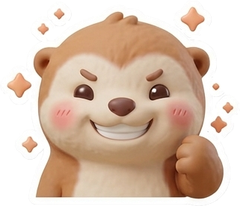
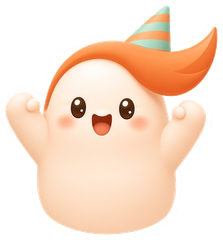
Chat reactions: six new mascot stickers that move to their feeling
The otter reactions are redrawn with the Sigmazam mascot, one idea each: hugging a
heart, laughing in tears, paws on cheeks, under a rain cloud, in a party hat, cool in
sunglasses. ReactionSticker gives each its own beat (heartbeat, shake, pop, slow sway,
jump, nod): looping in the reaction picker, twice and then still under a message, and
still with reduced motion.

diff --git a/src/components/chat/reaction-sticker.tsx b/src/components/chat/reaction-sticker.tsx
@@ -1,0 +1,119 @@
+import { Image } from 'expo-image';
+import { useEffect } from 'react';
+import { StyleProp, ViewStyle } from 'react-native';
+import Animated, {
+  cancelAnimation,
+  Easing,
+  type SharedValue,
+  useAnimatedStyle,
+  useReducedMotion,
+  useSharedValue,
+  withDelay,
+  withRepeat,
+  withSequence,
+  withSpring,
+  withTiming,
+} from 'react-native-reanimated';
+
+import { REACTION_STICKERS, type ReactionName } from '@/assets/brand/registry';
+
+interface ReactionStickerProps {
+  name: ReactionName;
+  /** `loop` keeps moving (the reaction picker); `once` plays twice and rests (under a message). */
+  play?: 'loop' | 'once';
+  /** Size and position; the sticker fills it. */
+  style?: StyleProp<ViewStyle>;
+}
+
+type Motion = { scale: SharedValue<number>; rotate: SharedValue<number>; lift: SharedValue<number> };
+
+const ease = Easing.inOut(Easing.quad);
+const tick = (to: number, duration: number) => withTiming(to, { duration, easing: ease });
+
+/**
+ * Each reaction moves the way it feels, a short beat then a rest:
+ * love beats like a heart, laugh shakes, wow pops, sad sways slowly, hyped jumps,
+ * thumbs gives a cool nod. `lift` is a share of the sticker's height.
+ */
+function start(name: ReactionName, { scale, rotate, lift }: Motion, times: number) {
+  const repeat = (beat: number) => withRepeat(beat, times);
+  switch (name) {
+    case 'love':
+      scale.value = repeat(
+        withSequence(tick(1.14, 120), tick(1, 120), tick(1.09, 120), tick(1, 200), withDelay(900, tick(1, 0))),
+      );
+      break;
+    case 'laugh':
+      rotate.value = repeat(
+        withSequence(tick(-9, 70), tick(9, 90), tick(-7, 90), tick(7, 90), tick(0, 80), withDelay(650, tick(0, 0))),
+      );
+      lift.value = repeat(withSequence(tick(-0.05, 110), tick(0, 110), tick(-0.05, 110), tick(0, 110), withDelay(650, tick(0, 0))));
+      break;
+    case 'wow':
+      scale.value = repeat(
+        withSequence(tick(0.86, 90), withSpring(1.16, { damping: 6, stiffness: 260 }), tick(1, 180), withDelay(1500, tick(1, 0))),
+      );
+      break;
+    case 'sad':
+      rotate.value = repeat(withSequence(tick(-4, 1100), tick(4, 1100)));
+      lift.value = repeat(withSequence(tick(0.025, 1100), tick(0, 1100)));
+      break;
+    case 'hyped':
+      lift.value = repeat(
+        withSequence(
+          withTiming(-0.2, { duration: 150, easing: Easing.out(Easing.quad) }),
+          withTiming(0, { duration: 150, easing: Easing.in(Easing.quad) }),
+          withTiming(-0.14, { duration: 130, easing: Easing.out(Easing.quad) }),
+          withTiming(0, { duration: 130, easing: Easing.in(Easing.quad) }),
+          withDelay(700, tick(0, 0)),
+        ),
+      );
+      scale.value = repeat(withSequence(tick(1.05, 150), tick(1, 150), tick(1, 260), withDelay(700, tick(1, 0))));
+      break;
+    case 'thumbs':
+      rotate.value = repeat(
+        withSequence(tick(-12, 160), withSpring(0, { damping: 7, stiffness: 220 }), withDelay(1400, tick(0, 0))),
+      );
+      break;
+  }
+}
+
+/** A chat reaction sticker of the Sigmazam mascot that moves to match its feeling. */
+export function ReactionSticker({ name, play = 'loop', style }: ReactionStickerProps) {
+  const reduceMotion = useReducedMotion();
+  const scale = useSharedValue(1);
+  const rotate = useSharedValue(0);
+  const lift = useSharedValue(0);
+  const height = useSharedValue(0);
+
+  useEffect(() => {
+    if (reduceMotion) return;
+    start(name, { scale, rotate, lift }, play === 'loop' ? -1 : 2);
+    return () => {
+      cancelAnimation(scale);
+      cancelAnimation(rotate);
+      cancelAnimation(lift);
+      scale.value = 1;
+      rotate.value = 0;
+      lift.value = 0;
+    };
+  }, [name, play, reduceMotion, scale, rotate, lift]);
+
+  const motion = useAnimatedStyle(() => ({
+    transform: [
+      { translateY: lift.value * height.value },
+      { rotate: `${rotate.value}deg` },
+      { scale: scale.value },
+    ],
+  }));
+
+  return (
+    <Animated.View
+      style={[style, motion]}
+      onLayout={(e) => {
+        height.value = e.nativeEvent.layout.height;
+      }}>
+      <Image source={REACTION_STICKERS[name]} style={{ width: '100%', height: '100%' }} contentFit="contain" />
+    </Animated.View>
+  );
+}

diff --git a/src/app/group/[id]/index.tsx b/src/app/group/[id]/index.tsx
@@ -1,6 +1,5 @@
 import { Ionicons } from '@expo/vector-icons';
 import * as Clipboard from 'expo-clipboard';
-import { Image } from 'expo-image';
 import * as ImagePicker from 'expo-image-picker';
 import { useFocusEffect, useLocalSearchParams, useRouter } from 'expo-router';
 import { useCallback, useEffect, useMemo, useRef, useState } from 'react';
@@ -10,6 +9,7 @@ import { useSafeAreaInsets } from 'react-native-safe-area-context';
 
 import { REPORT_REASONS } from '@/ai/safety';
 import { REACTION_STICKERS, type ReactionName } from '@/assets/brand/registry';
+import { ReactionSticker } from '@/components/chat/reaction-sticker';
 import { ChatInput, ChatWallpaper, MessageBubble, TypingRow, VoiceSheet } from '@/components/chat';
 import { DailyCallsSheet } from '@/components/chat/daily-calls-sheet';
 import { DayChip } from '@/components/chat/day-chip';
@@ -417,7 +417,7 @@ export default function GroupChatScreen() {
                       reactToMessage(groupId, menu.id, on ? undefined : reaction);
                       setMenu(null);
                     }}>
-                    <Image source={REACTION_STICKERS[reaction]} style={styles.reactionSticker} contentFit="contain" />
+                    <ReactionSticker name={reaction} style={styles.reactionSticker} />
                   </PressableScale>
                 );
               })}

diff --git a/src/components/chat/message-bubble.tsx b/src/components/chat/message-bubble.tsx
@@ -8,6 +8,7 @@ import Animated, { FadeInDown } from 'react-native-reanimated';
 
 import { HELPLINE_URL } from '@/ai/safety';
 import { REACTION_STICKERS, type ReactionName } from '@/assets/brand/registry';
+import { ReactionSticker } from '@/components/chat/reaction-sticker';
 import { BoothPicture, fitWidth } from '@/components/photo-booth/booth-picture';
 import { Anim, Button, CharacterAvatar, PressableScale, Txt, UserAvatar } from '@/components/ui';
 import { planDate } from '@/components/plans/copy';
@@ -80,10 +81,10 @@ export const MessageBubble = memo(function MessageBubble({
           <TextBubble message={message} mine={mine} first={showAvatar} />
         )}
         {message.reaction && message.reaction in REACTION_STICKERS ? (
-          <Image
-            source={REACTION_STICKERS[message.reaction as ReactionName]}
+          <ReactionSticker
+            name={message.reaction as ReactionName}
+            play="once"
             style={[styles.reaction, mine ? styles.reactionMine : styles.reactionTheirs]}
-            contentFit="contain"
           />
         ) : null}
       </PressableScale>

diff --git a/src/app/chat/[id].tsx b/src/app/chat/[id].tsx
@@ -16,6 +16,7 @@ import { DailyCallsSheet } from '@/components/chat/daily-calls-sheet';
 import { AlarmBar, QuickReplies } from '@/components/chat/quick-replies';
 import { TruthOrDareSheet } from '@/components/chat/truth-or-dare-sheet';
 import { REACTION_STICKERS, type ReactionName } from '@/assets/brand/registry';
+import { ReactionSticker } from '@/components/chat/reaction-sticker';
 import { PaywallSheet } from '@/components/paywall-sheet';
 import { CallPaywallSheet } from '@/components/plans/call-paywall-sheet';
 import { OutOfMinutesSheet } from '@/components/plans/out-of-minutes-sheet';
@@ -416,7 +417,7 @@ export default function ChatRoomScreen() {
                       reactToMessage(conversation.id, menu.id, on ? undefined : name);
                       setMenu(null);
                     }}>
-                    <Image source={REACTION_STICKERS[name]} style={styles.reactionSticker} contentFit="contain" />
+                    <ReactionSticker name={name} style={styles.reactionSticker} />
                   </PressableScale>
                 );
               })}

diff --git a/scripts/build-sigmazam-brand.py b/scripts/build-sigmazam-brand.py
@@ -35,15 +35,20 @@ IMAGES = ROOT / 'assets/images'
 CREAM = (253, 246, 238)
 
 
-def cut(path, barrier_t=18, lo=22, hi=70, drop_shadow_below=None):
-    """Return (RGBA image, background colour) with the background removed."""
+def cut(path, barrier_t=18, lo=22, hi=70, drop_shadow_below=None, strip_white=False):
+    """Return (RGBA image, background colour) with the background removed.
+
+    `strip_white` also removes a white die-cut sticker outline: near-white pixels are let
+    through the flood fill and dropped, so the outline goes with the background.
+    """
     a = np.asarray(Image.open(path).convert('RGB')).astype(np.float32)
     h, w, _ = a.shape
     border = np.concatenate([a[0], a[-1], a[:, 0], a[:, -1]])
     bg = np.median(border, axis=0)
     diff = np.abs(a - bg).max(axis=2)
 
-    mask = Image.fromarray(((diff > barrier_t) * 255).astype(np.uint8), 'L').copy()
+    white = a.min(axis=2) > 243 if strip_white else np.zeros(diff.shape, bool)
+    mask = Image.fromarray((((diff > barrier_t) & ~white) * 255).astype(np.uint8), 'L').copy()
     for x in range(0, w, 8):
         for y in (0, h - 1):
             if mask.getpixel((x, y)) == 0:
@@ -58,6 +63,7 @@ def cut(path, barrier_t=18, lo=22, hi=70, drop_shadow_below=None):
     soft = np.clip((diff - lo) / (hi - lo), 0, 1)
     alpha = np.ones((h, w), np.float32)
     alpha[reached] = soft[reached]
+    alpha[reached & white] = 0
     near = np.zeros_like(reached)
     near[1:, :] |= reached[:-1, :]
     near[:-1, :] |= reached[1:, :]
@@ -135,6 +141,16 @@ def main():
 # Cutouts were drawn on flat blue-grey so the cream body keys cleanly; scenes keep their backdrop.
 ART = ROOT / 'docs/branding/art'
 CUTOUTS = {'sticker': 640, 'empty': 720, 'peek': 720}
+# Chat reactions, 240px like before. Sad sat on a soft floor shadow (a higher alpha floor drops
+# it); hyped and wow came with a white sticker outline the others do not have.
+REACTIONS = {
+    'love': {},
+    'laugh': {},
+    'wow': {'strip_white': True},
+    'sad': {'barrier_t': 40, 'lo': 34, 'hi': 70},
+    'hyped': {'strip_white': True},
+    'thumbs': {},
+}
 SCENES = {'reward': 720, 'levelup': 800, 'bedtime': 720, 'diary': 900}
 
 
@@ -144,6 +160,11 @@ def build_mascot_art():
         out = fit(img, longest)
         out.save(BRAND / f'sigmazam-{name}.png', optimize=True)
         print(name, out.size)
+    for name, opts in REACTIONS.items():
+        img, _ = cut(ART / f'reaction-{name}.png', **{'barrier_t': 14, 'lo': 14, 'hi': 45, **opts})
+        out = fit(img, 240)
+        out.save(BRAND / f'reaction-{name}.png', optimize=True)
+        print('reaction', name, out.size)
     for name, longest in SCENES.items():
         img = fit(Image.open(ART / f'{name}.png').convert('RGB'), longest)
         img.save(BRAND / f'sigmazam-{name}.jpg', quality=88, optimize=True, progressive=True)

diff --git a/scripts/build-brand-art.py b/scripts/build-brand-art.py
@@ -716,7 +716,7 @@ def main():
     print('currency shell done')
 
     edge = build_app_icons(newest('app_icon'))
-    build_reactions()
+    # Reaction stickers are the Sigmazam mascot now: scripts/build-sigmazam-brand.py.
     print(f'app icon done, android background {edge}')
     print(f'icons3d {", ".join(build_icons_3d()) or "none yet"}')
 

diff --git a/HANDOFF.md b/HANDOFF.md
@@ -31,7 +31,11 @@ swoosh peeking over the G) replaces the Rafti name. Written as text: "Sigmazam".
   empty state's seashell glow and ripples went with the shell (float, shadow and tap squash stay);
   The empty-state art was redrawn without the box (owner): peeking through a magnifying glass.
   `build-brand-art.py` no longer writes the mascot pieces, splash or icons.
-- Still the otter: the 6 chat reaction stickers (`REACTION_STICKERS`). Docs still say Rafti.
+- Chat reactions redrawn (6 x $0.08, `docs/branding/art/reaction-*.png`): love hugs a heart, laugh
+  rolls back in tears, wow with paws on cheeks, sad under a rain cloud, hyped in a party hat, thumbs
+  in sunglasses. `src/components/chat/reaction-sticker.tsx` moves each to its feeling (heartbeat,
+  shake, pop, slow sway, jump, cool nod): looping in the picker (chat and group chat), twice then
+  still under a message, still with reduced motion. No otter art is left in the app. Docs still say Rafti.
 - Owner wants the app palette moved off the dark apricot `#E8742A` ("looks like Claude") toward the
   logo's bright apricot `#F58B49`; white text needs a deeper button shade (about `#F27B3D`). Do it
   as its own task with a prototype.
